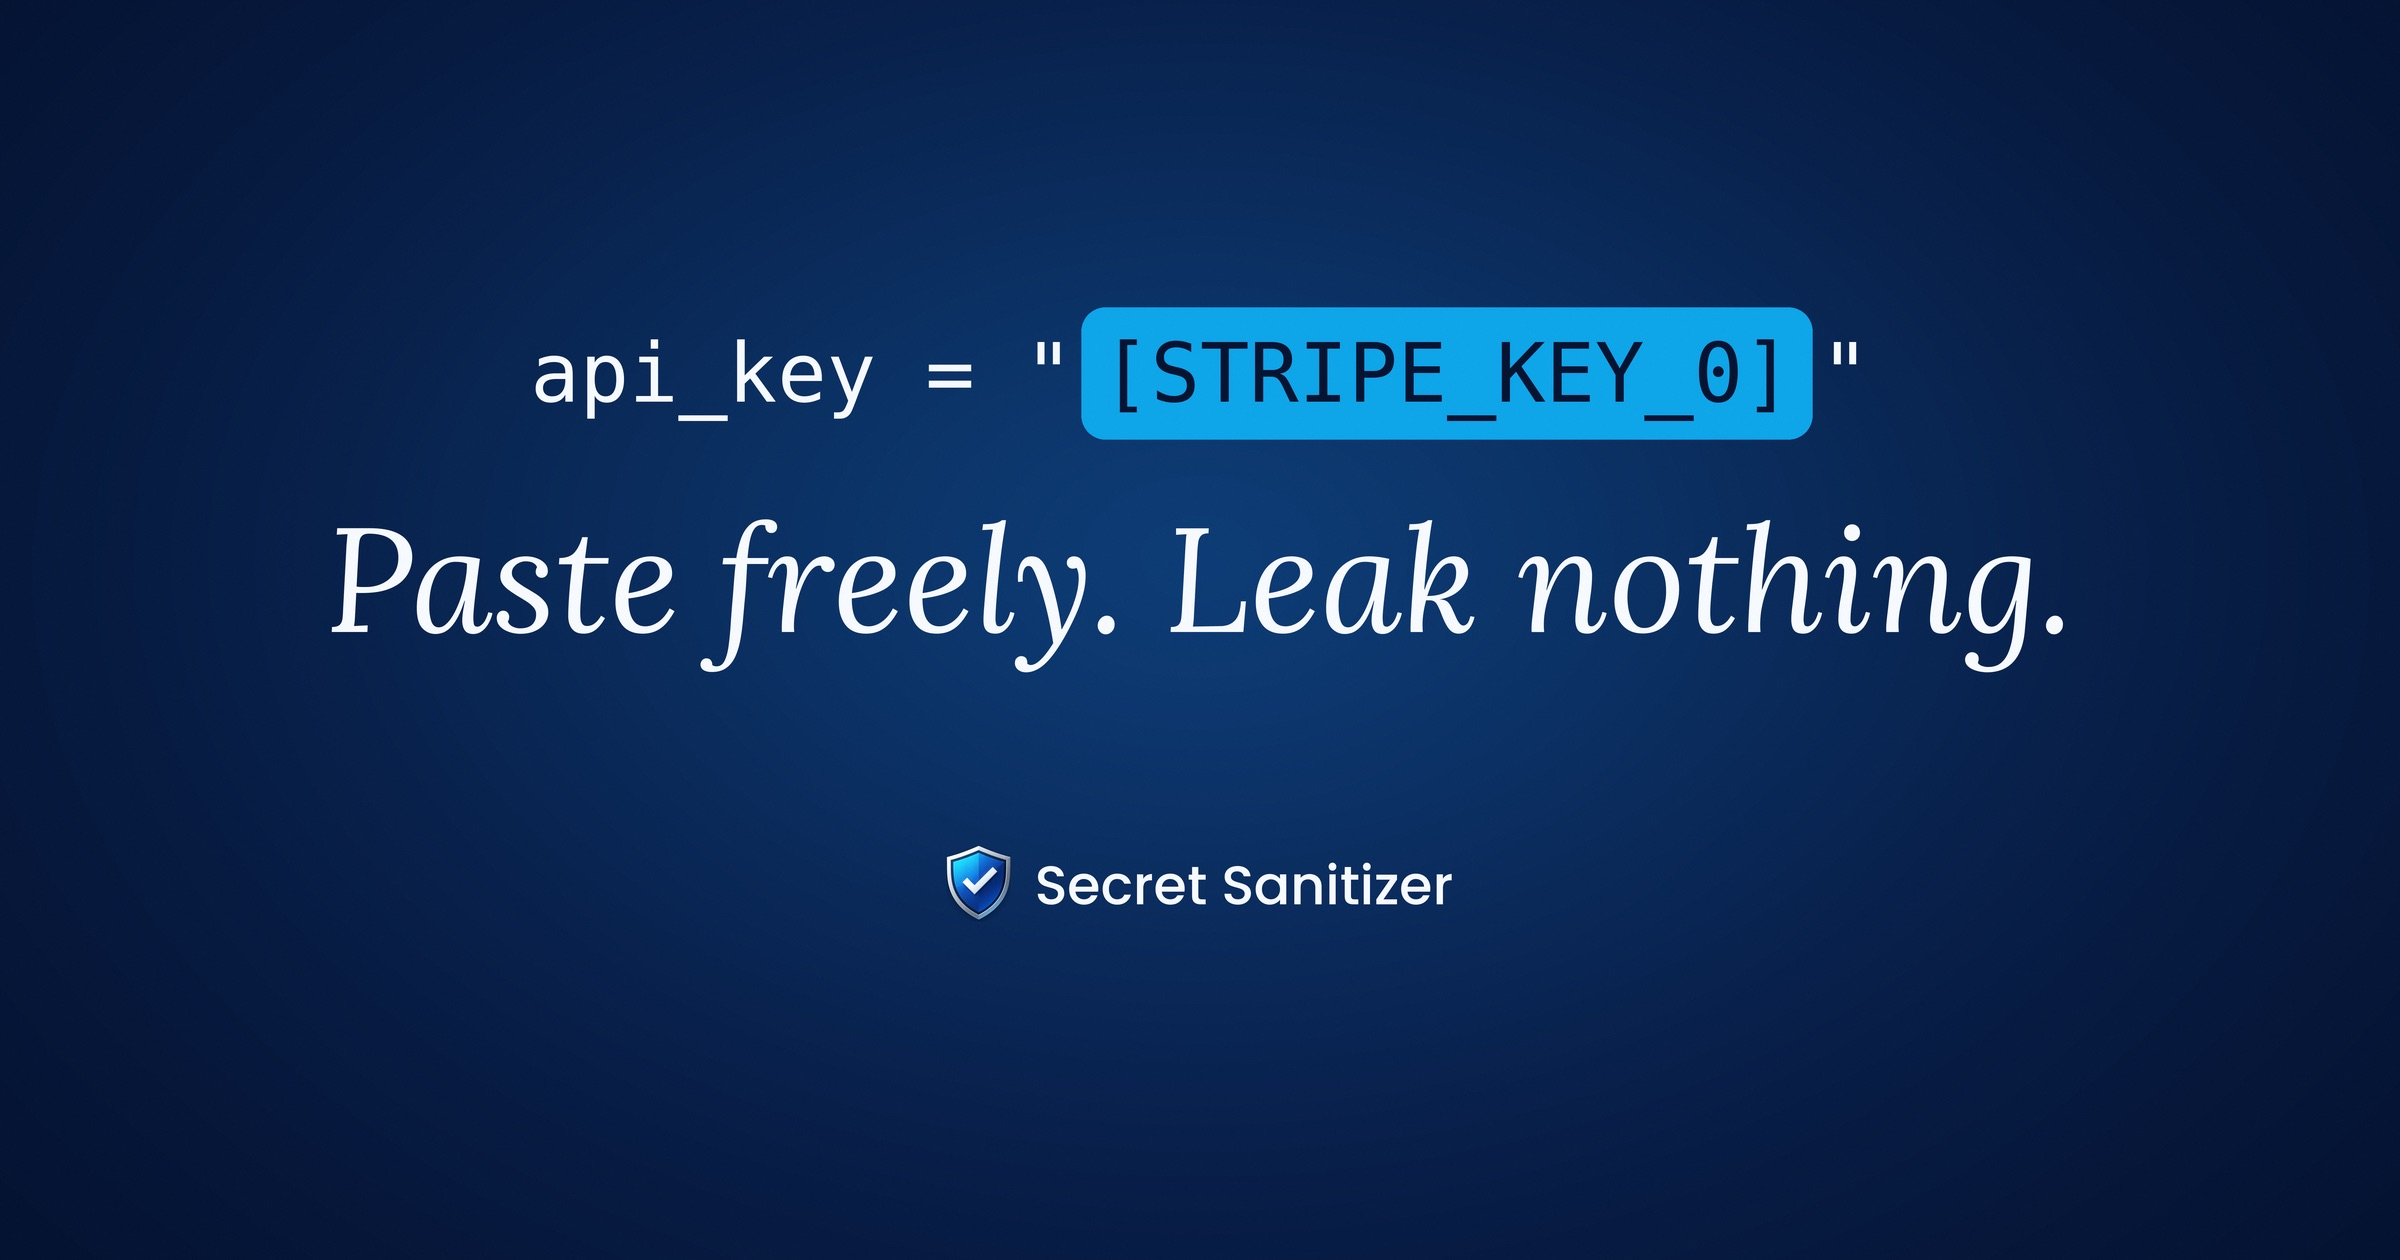
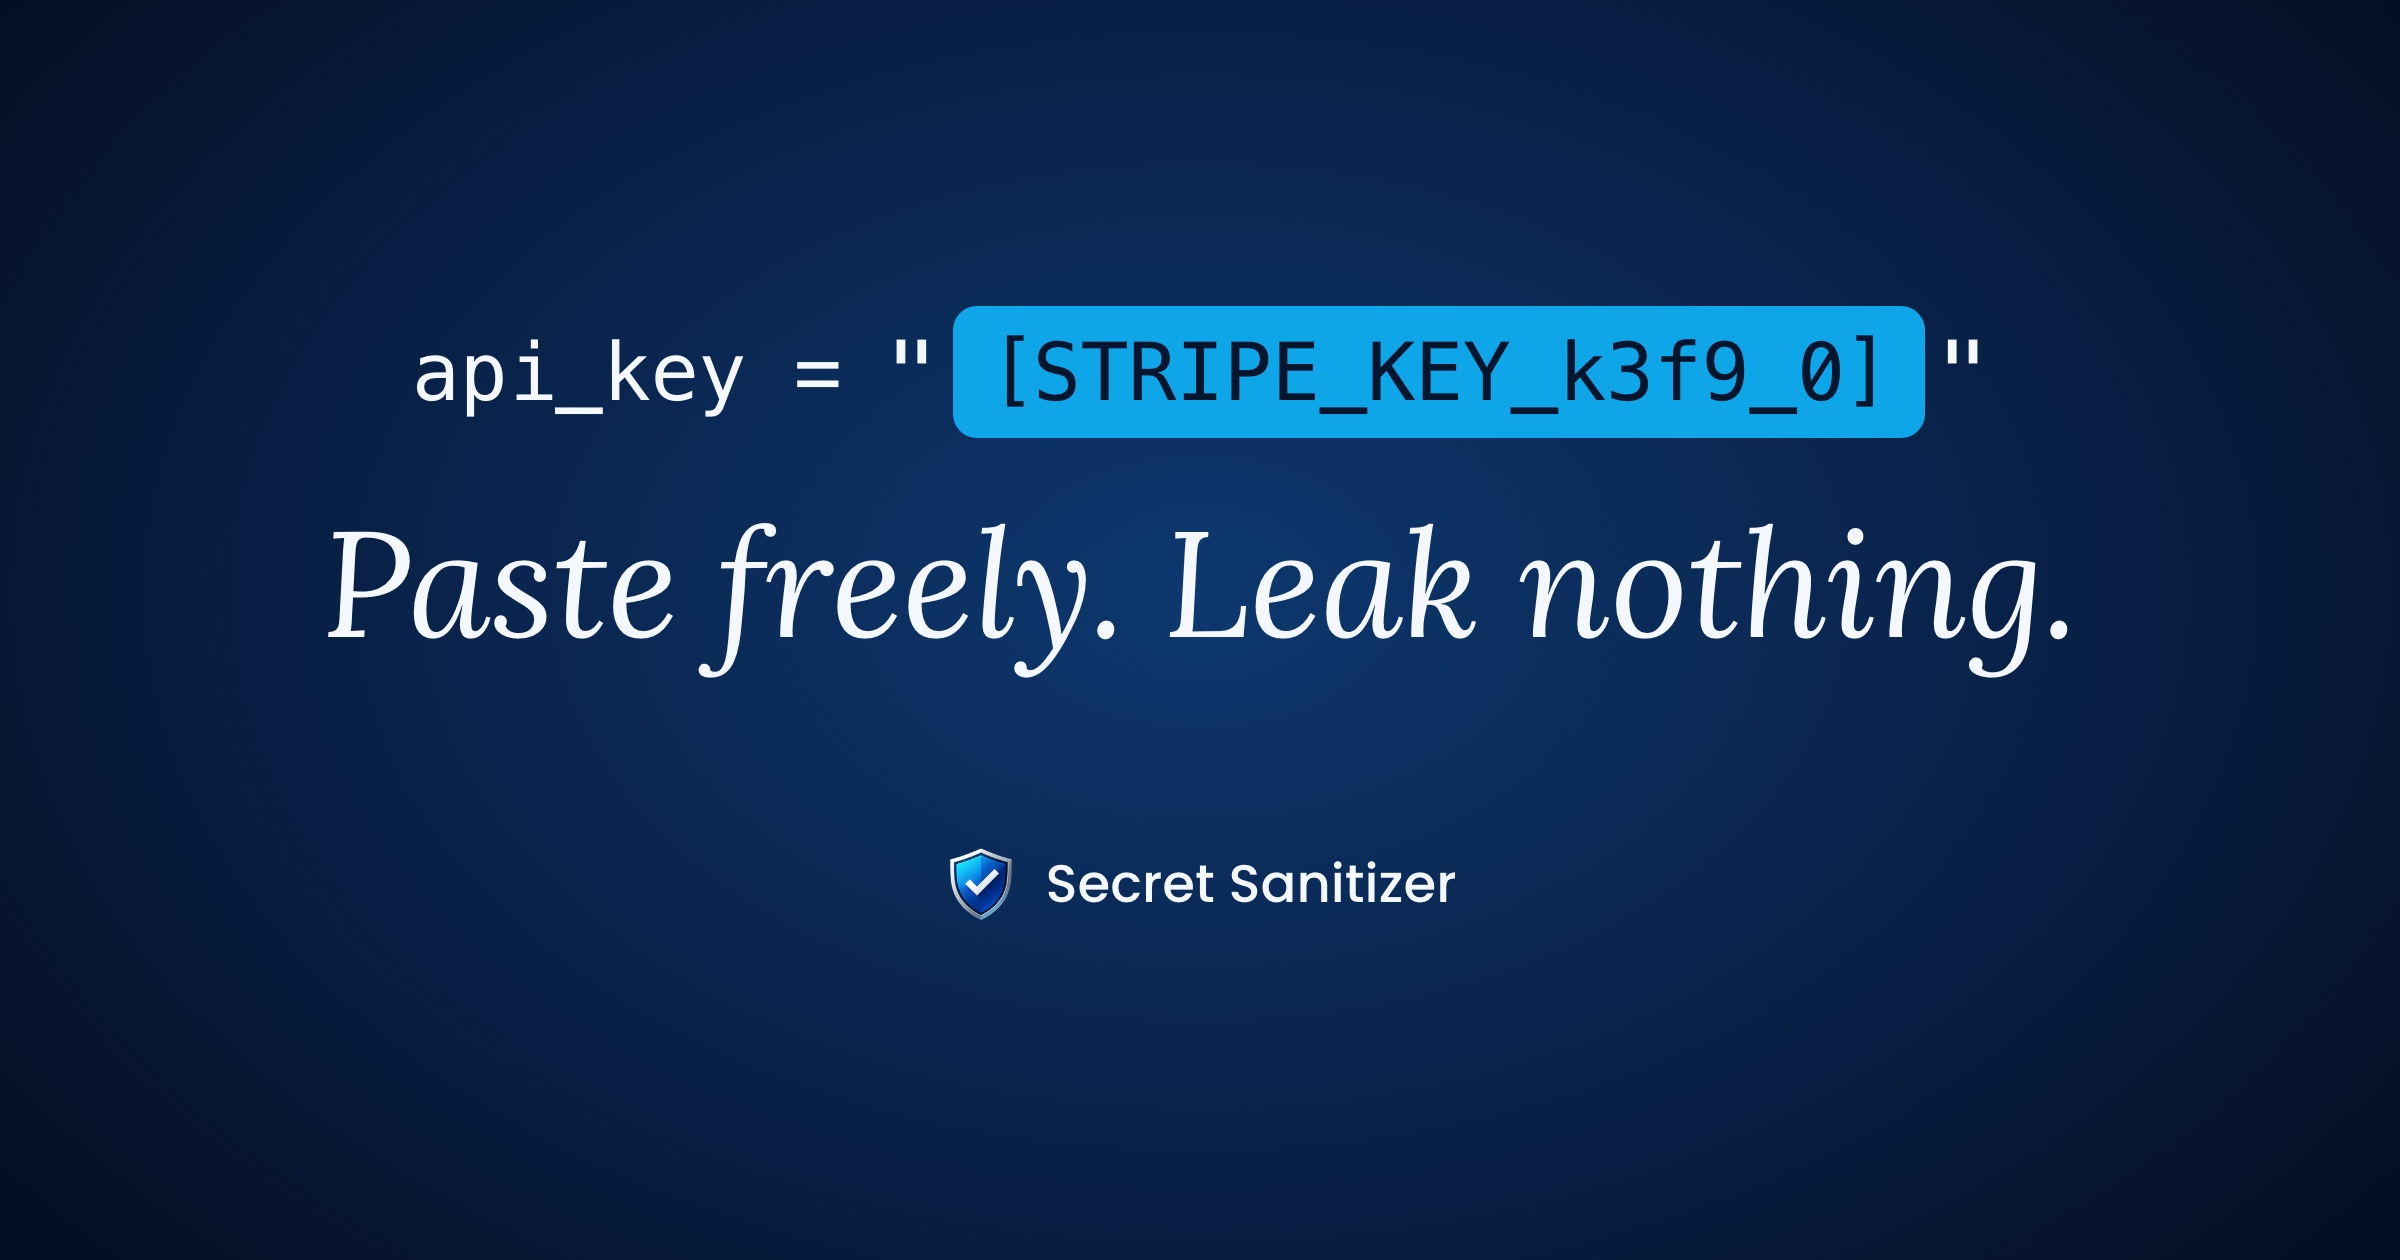
Website: OG card and image alt text use the current placeholder format

diff --git a/website/blog/what-happens-to-data-you-paste-into-ai.html b/website/blog/what-happens-to-data-you-paste-into-ai.html
@@ -18,12 +18,12 @@
   <meta property="og:image:width" content="2400">
   <meta property="og:image:height" content="1260">
   <meta property="og:image:type" content="image/jpeg">
-  <meta property="og:image:alt" content="Secret Sanitizer masks api_key as [STRIPE_KEY_0] — Paste freely. Leak nothing.">
+  <meta property="og:image:alt" content="Secret Sanitizer masks api_key as [STRIPE_KEY_k3f9_0] — Paste freely. Leak nothing.">
   <meta name="twitter:card" content="summary_large_image">
   <meta name="twitter:title" content="What Happens to the Code You Paste Into ChatGPT, Claude, or Gemini?">
   <meta name="twitter:description" content="It doesn't vanish when the chat ends. A plain-English look at retention, training, human review, and the safe assumption to work from.">
   <meta name="twitter:image" content="https://secretsanitizer.com/og-card.jpg">
-  <meta name="twitter:image:alt" content="Secret Sanitizer masks api_key as [STRIPE_KEY_0] — Paste freely. Leak nothing.">
+  <meta name="twitter:image:alt" content="Secret Sanitizer masks api_key as [STRIPE_KEY_k3f9_0] — Paste freely. Leak nothing.">
   <link rel="icon" type="image/png" href="../icon-128.png">
   <meta name="theme-color" content="#050f24">
   <link rel="preload" href="../fonts/lora-italic-400.woff2" as="font" type="font/woff2" crossorigin>

diff --git a/website/blog/pasted-api-key-into-chatgpt.html b/website/blog/pasted-api-key-into-chatgpt.html
@@ -18,12 +18,12 @@
   <meta property="og:image:width" content="2400">
   <meta property="og:image:height" content="1260">
   <meta property="og:image:type" content="image/jpeg">
-  <meta property="og:image:alt" content="Secret Sanitizer masks api_key as [STRIPE_KEY_0] — Paste freely. Leak nothing.">
+  <meta property="og:image:alt" content="Secret Sanitizer masks api_key as [STRIPE_KEY_k3f9_0] — Paste freely. Leak nothing.">
   <meta name="twitter:card" content="summary_large_image">
   <meta name="twitter:title" content="I Pasted an API Key Into ChatGPT — Here's Exactly What to Do">
   <meta name="twitter:description" content="A step-by-step rotation checklist for AWS, GitHub, Stripe, OpenAI, and any other key you just exposed to an AI chat.">
   <meta name="twitter:image" content="https://secretsanitizer.com/og-card.jpg">
-  <meta name="twitter:image:alt" content="Secret Sanitizer masks api_key as [STRIPE_KEY_0] — Paste freely. Leak nothing.">
+  <meta name="twitter:image:alt" content="Secret Sanitizer masks api_key as [STRIPE_KEY_k3f9_0] — Paste freely. Leak nothing.">
   <link rel="icon" type="image/png" href="../icon-128.png">
   <meta name="theme-color" content="#050f24">
   <link rel="preload" href="../fonts/lora-italic-400.woff2" as="font" type="font/woff2" crossorigin>

diff --git a/website/index.html b/website/index.html
@@ -18,13 +18,13 @@
   <meta property="og:image:width" content="2400">
   <meta property="og:image:height" content="1260">
   <meta property="og:image:type" content="image/jpeg">
-  <meta property="og:image:alt" content="Secret Sanitizer masks api_key as [STRIPE_KEY_0] — Paste freely. Leak nothing.">
+  <meta property="og:image:alt" content="Secret Sanitizer masks api_key as [STRIPE_KEY_k3f9_0] — Paste freely. Leak nothing.">
   <meta name="twitter:card" content="summary_large_image">
   <meta name="twitter:site" content="@souvik_ghosh975">
   <meta name="twitter:title" content="Secret Sanitizer — Paste Freely, Leak Nothing">
   <meta name="twitter:description" content="API keys, tokens & credentials are masked locally before they reach AI chats. 70+ patterns, open source, zero tracking.">
   <meta name="twitter:image" content="https://secretsanitizer.com/og-card.jpg">
-  <meta name="twitter:image:alt" content="Secret Sanitizer masks api_key as [STRIPE_KEY_0] — Paste freely. Leak nothing.">
+  <meta name="twitter:image:alt" content="Secret Sanitizer masks api_key as [STRIPE_KEY_k3f9_0] — Paste freely. Leak nothing.">
   <meta name="twitter:creator" content="@souvik_ghosh975">
   <link rel="icon" type="image/png" href="icon-128.png">
   <meta name="theme-color" content="#050f24">

diff --git a/website/blog/prompt-poaching.html b/website/blog/prompt-poaching.html
@@ -18,12 +18,12 @@
   <meta property="og:image:width" content="2400">
   <meta property="og:image:height" content="1260">
   <meta property="og:image:type" content="image/jpeg">
-  <meta property="og:image:alt" content="Secret Sanitizer masks api_key as [STRIPE_KEY_0] — Paste freely. Leak nothing.">
+  <meta property="og:image:alt" content="Secret Sanitizer masks api_key as [STRIPE_KEY_k3f9_0] — Paste freely. Leak nothing.">
   <meta name="twitter:card" content="summary_large_image">
   <meta name="twitter:title" content="Prompt Poaching: When Browser Extensions Read Your AI Chats">
   <meta name="twitter:description" content="How trusted-looking Chrome extensions harvested AI conversations at scale — and how to audit your own browser.">
   <meta name="twitter:image" content="https://secretsanitizer.com/og-card.jpg">
-  <meta name="twitter:image:alt" content="Secret Sanitizer masks api_key as [STRIPE_KEY_0] — Paste freely. Leak nothing.">
+  <meta name="twitter:image:alt" content="Secret Sanitizer masks api_key as [STRIPE_KEY_k3f9_0] — Paste freely. Leak nothing.">
   <link rel="icon" type="image/png" href="../icon-128.png">
   <meta name="theme-color" content="#050f24">
   <link rel="preload" href="../fonts/lora-italic-400.woff2" as="font" type="font/woff2" crossorigin>

diff --git a/website/blog/why-i-built-secret-sanitizer.html b/website/blog/why-i-built-secret-sanitizer.html
@@ -18,12 +18,12 @@
   <meta property="og:image:width" content="2400">
   <meta property="og:image:height" content="1260">
   <meta property="og:image:type" content="image/jpeg">
-  <meta property="og:image:alt" content="Secret Sanitizer masks api_key as [STRIPE_KEY_0] — Paste freely. Leak nothing.">
+  <meta property="og:image:alt" content="Secret Sanitizer masks api_key as [STRIPE_KEY_k3f9_0] — Paste freely. Leak nothing.">
   <meta name="twitter:card" content="summary_large_image">
   <meta name="twitter:title" content="Why I Built Secret Sanitizer">
   <meta name="twitter:description" content="A security incident, a habit I spotted in myself, and a belief that the right answer is zero trust — not less trust.">
   <meta name="twitter:image" content="https://secretsanitizer.com/og-card.jpg">
-  <meta name="twitter:image:alt" content="Secret Sanitizer masks api_key as [STRIPE_KEY_0] — Paste freely. Leak nothing.">
+  <meta name="twitter:image:alt" content="Secret Sanitizer masks api_key as [STRIPE_KEY_k3f9_0] — Paste freely. Leak nothing.">
   <link rel="icon" type="image/png" href="../icon-128.png">
   <meta name="theme-color" content="#050f24">
   <link rel="preload" href="../fonts/lora-italic-400.woff2" as="font" type="font/woff2" crossorigin>

diff --git a/website/privacy.html b/website/privacy.html
@@ -20,7 +20,7 @@
   <meta property="og:image:width" content="2400">
   <meta property="og:image:height" content="1260">
   <meta property="og:image:type" content="image/jpeg">
-  <meta property="og:image:alt" content="Secret Sanitizer masks api_key as [STRIPE_KEY_0] — Paste freely. Leak nothing.">
+  <meta property="og:image:alt" content="Secret Sanitizer masks api_key as [STRIPE_KEY_k3f9_0] — Paste freely. Leak nothing.">
 
   <meta name="twitter:card" content="summary_large_image">
   <meta name="twitter:site" content="@souvik_ghosh975">
@@ -28,7 +28,7 @@
   <meta name="twitter:title" content="Privacy Policy — Secret Sanitizer">
   <meta name="twitter:description" content="Nothing is sent to us or anyone else. All data stays on your machine. 100% local Chrome extension.">
   <meta name="twitter:image" content="https://secretsanitizer.com/og-card.jpg">
-  <meta name="twitter:image:alt" content="Secret Sanitizer masks api_key as [STRIPE_KEY_0] — Paste freely. Leak nothing.">
+  <meta name="twitter:image:alt" content="Secret Sanitizer masks api_key as [STRIPE_KEY_k3f9_0] — Paste freely. Leak nothing.">
 
   <link rel="preload" href="fonts/lora-italic-400.woff2" as="font" type="font/woff2" crossorigin>
   <link rel="stylesheet" href="site.css">

diff --git a/website/blog/index.html b/website/blog/index.html
@@ -18,12 +18,12 @@
   <meta property="og:image:width" content="2400">
   <meta property="og:image:height" content="1260">
   <meta property="og:image:type" content="image/jpeg">
-  <meta property="og:image:alt" content="Secret Sanitizer masks api_key as [STRIPE_KEY_0] — Paste freely. Leak nothing.">
+  <meta property="og:image:alt" content="Secret Sanitizer masks api_key as [STRIPE_KEY_k3f9_0] — Paste freely. Leak nothing.">
   <meta name="twitter:card" content="summary_large_image">
   <meta name="twitter:title" content="Secret Sanitizer Blog — Notes on AI-Chat Security">
   <meta name="twitter:description" content="Practical guides on keeping API keys, tokens, and sensitive data out of AI chats.">
   <meta name="twitter:image" content="https://secretsanitizer.com/og-card.jpg">
-  <meta name="twitter:image:alt" content="Secret Sanitizer masks api_key as [STRIPE_KEY_0] — Paste freely. Leak nothing.">
+  <meta name="twitter:image:alt" content="Secret Sanitizer masks api_key as [STRIPE_KEY_k3f9_0] — Paste freely. Leak nothing.">
   <link rel="icon" type="image/png" href="../icon-128.png">
   <meta name="theme-color" content="#050f24">
   <link rel="preload" href="../fonts/lora-italic-400.woff2" as="font" type="font/woff2" crossorigin>
